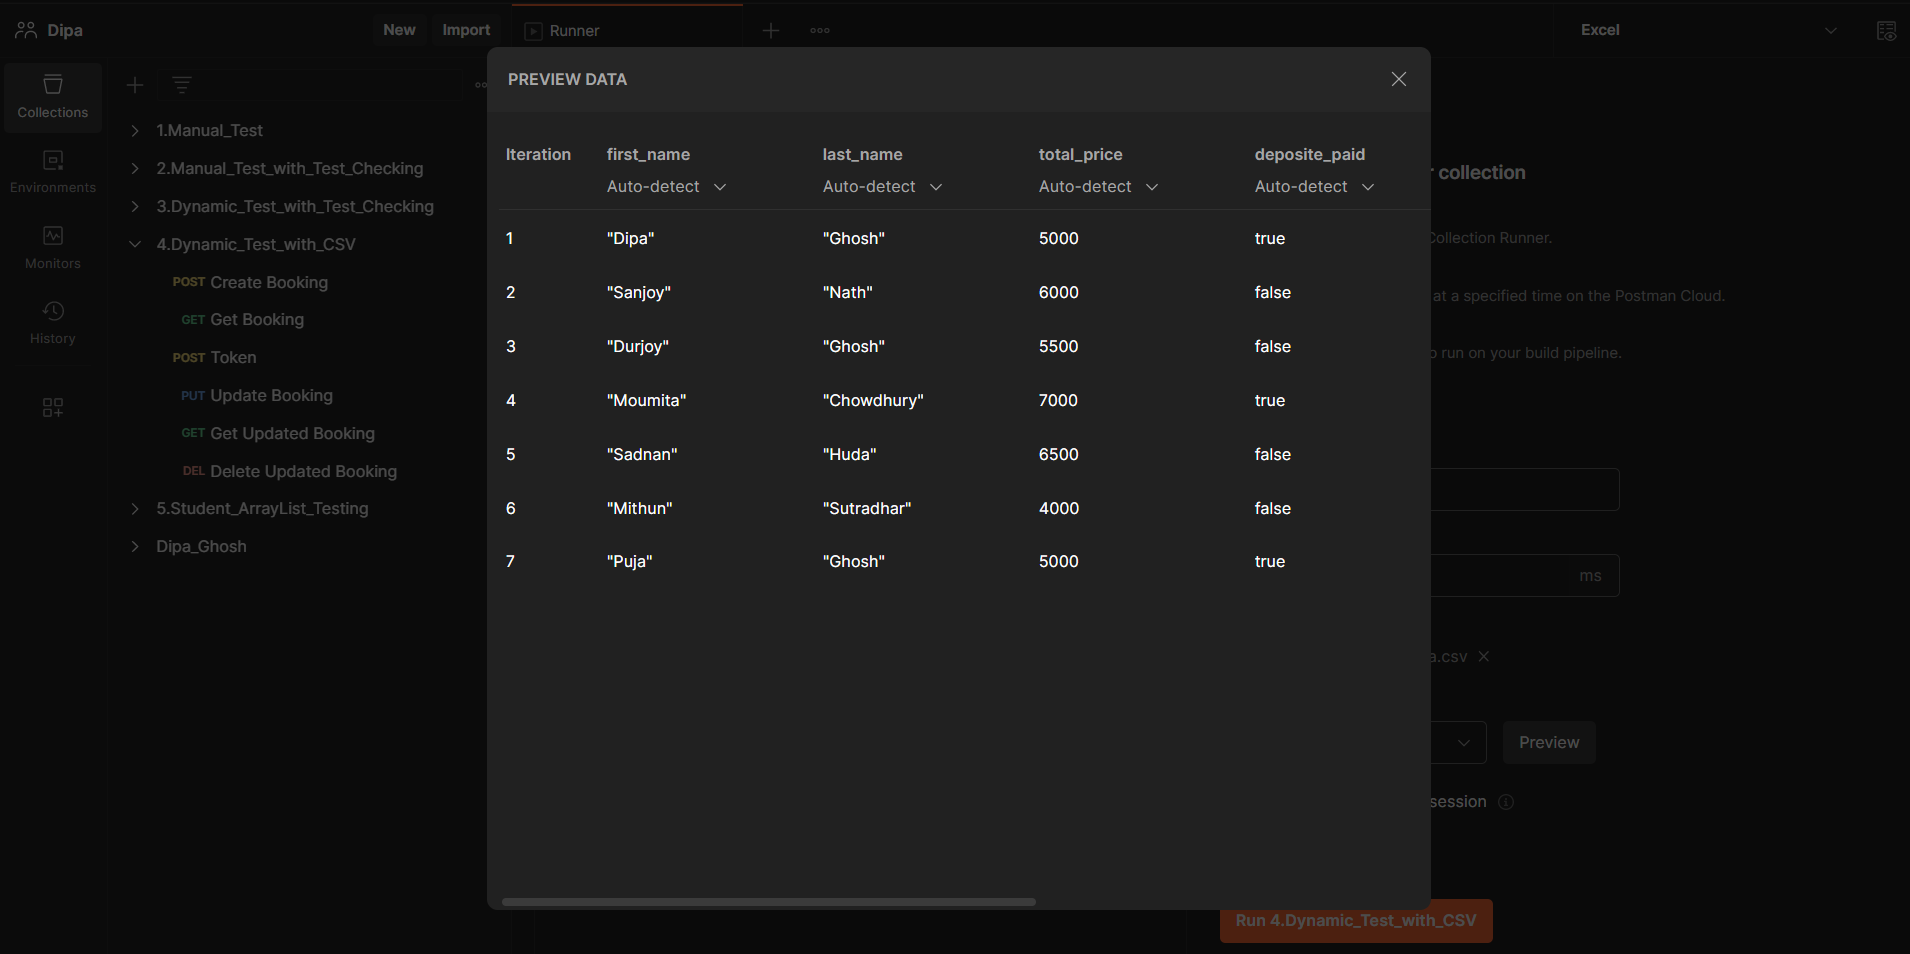
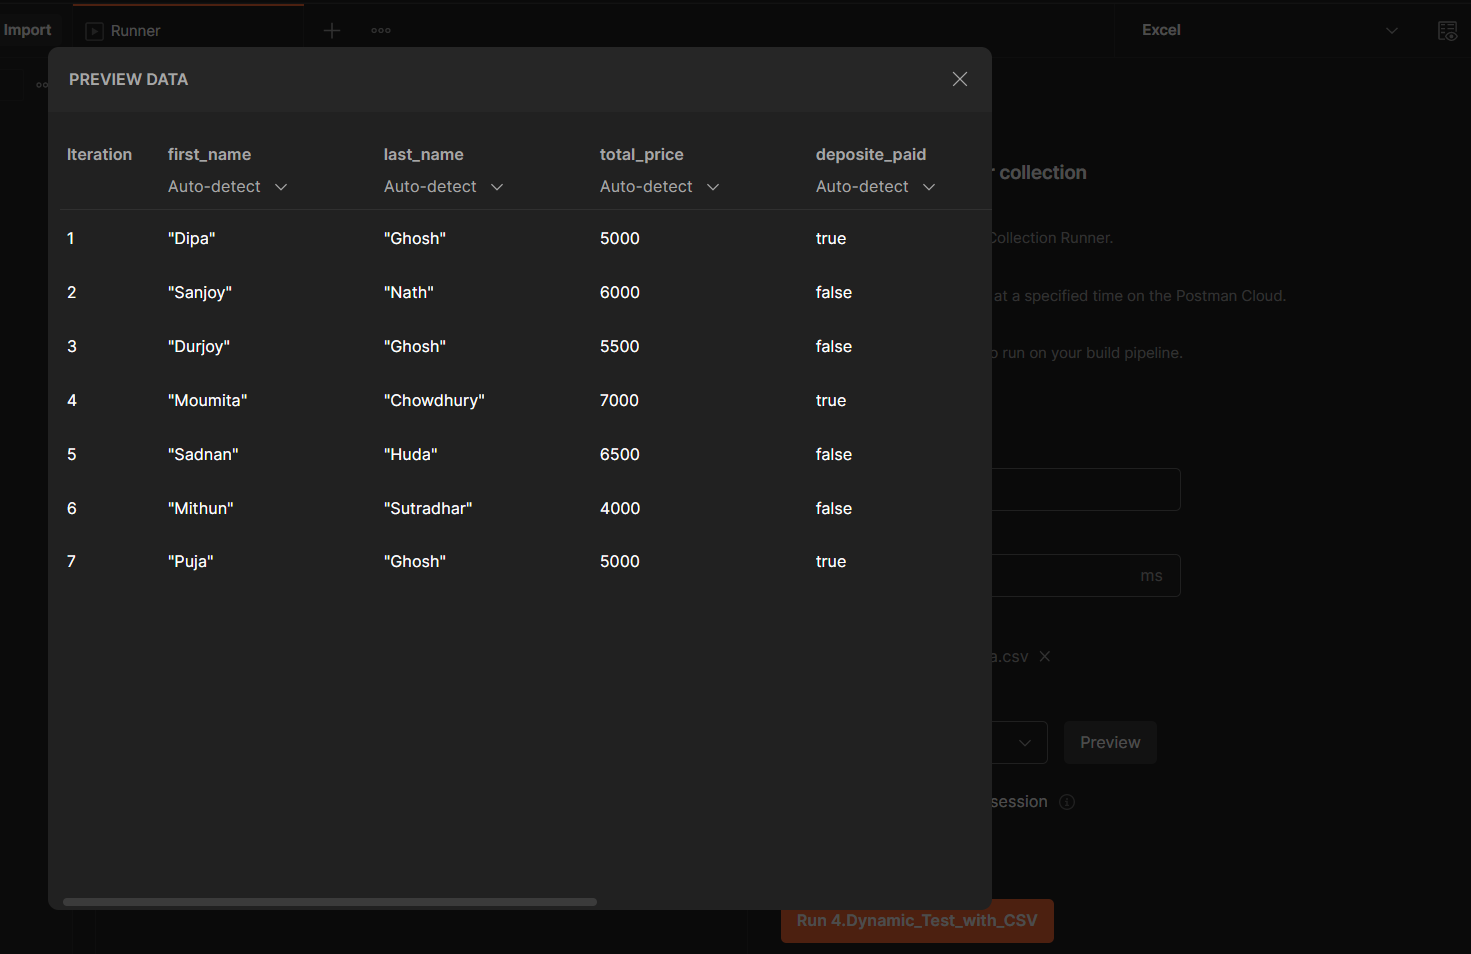
my changes

diff --git a/README.md b/README.md
@@ -1,9 +1,8 @@
 # Introduction
-This documentation explains the API testing suite for the restful-booker.herokuapp.com which contains a Postman collection and environment designed to facilitate API testing for various functionalities related to Booking management. The API allows operations such as fetching any existing booking, creating a new booking, retrieving created booking, generating token for authorization, updating booking, fetching the updating booking and delete the booking dynamically. 
+This documentation explains the API testing suite for the restful-booker.herokuapp.com which contains a Postman collection and environment designed to facilitate API testing for various functionalities related to Booking management. The API allows operations such as fetching any existing booking, creating a new booking, retrieving created booking, generating token for authorization, updating booking, fetching the updating booking and delete the booking dynamically and also used import dataset from csv file for create a booking and get the booking successfully.
 
 # Summary    
-I have completed an all these API of Create Booking Info, Get Booking Info, Post Token, Update Booking Info, Get Updated Booking Info and Delete Booking Info using
-https://restful-booker.herokuapp.com/   
+I have completed all these API of Create Booking Info, Get Booking Info, Post Token, Update Booking Info, Get Updated Booking Info and Delete Booking Info using https://restful-booker.herokuapp.com/   
 <p align="center">
   <img src="https://github.com/DiPaGh0sH/API_Testing_of_Restful-Booker_for_Booking_using_Postman/blob/main/Summary_in_Command.png?raw=true" />
 </p>
@@ -12,6 +11,21 @@ https://restful-booker.herokuapp.com/
 Here in this API testing Booking managements are viewed and different tests were performed for different HTTP methods like POST, GET, DELETE, PUT.
 
 **Summary:** Total 6 Test Scripts and 17 assertions were done. All of them passed with 0 failed tests and 0 skipped tests. The number of iteration was 1.
+
+# Summary    
+I also created booking info by importing a dataset from CSV filen and used all these API of Create Booking, Get Booking using https://restful-booker.herokuapp.com/   
+<p align="center">
+  <img src="https://github.com/DiPaGh0sH/API_Testing_of_Restful-Booker_for_Booking_using_Postman/blob/main/newman/SS%20of%20CSV%20file%20Importing/4.png?raw=true" />
+<img src="https://github.com/DiPaGh0sH/API_Testing_of_Restful-Booker_for_Booking_using_Postman/blob/main/newman/SS%20of%20CSV%20file%20Importing/1.png?raw=true" />
+<img src="https://github.com/DiPaGh0sH/API_Testing_of_Restful-Booker_for_Booking_using_Postman/blob/main/newman/SS%20of%20CSV%20file%20Importing/2.png?raw=true" />
+<img src="https://github.com/DiPaGh0sH/API_Testing_of_Restful-Booker_for_Booking_using_Postman/blob/main/newman/SS%20of%20CSV%20file%20Importing/3.png?raw=true" />
+
+</p>
+ 
+
+Here in this API testing Booking managements are viewed and different tests were performed for different HTTP methods like POST, GET.
+
+**Summary:** Total 56 assertions were done. All of them passed with 0 failed tests. The number of iteration was 7.
 
 
 # Requirements  
@@ -217,7 +231,7 @@ pm.environment.set("check_out", today.add(2,'d').format("YYYY-MM-DD"))
 }
 
 ```
-**Dynamically Token Generation in Header**
+####Dynamically Token Generation in Header**
 ```bash
 Cookie		token={{token_id}}
 
@@ -364,7 +378,7 @@ else if(status_code==503){
 })}
 
 ```
-**Dynamically Token Generation in Header**
+####Dynamically Token Generation in Header**
 ```bash
 Cookie		token={{token_id}}
 
